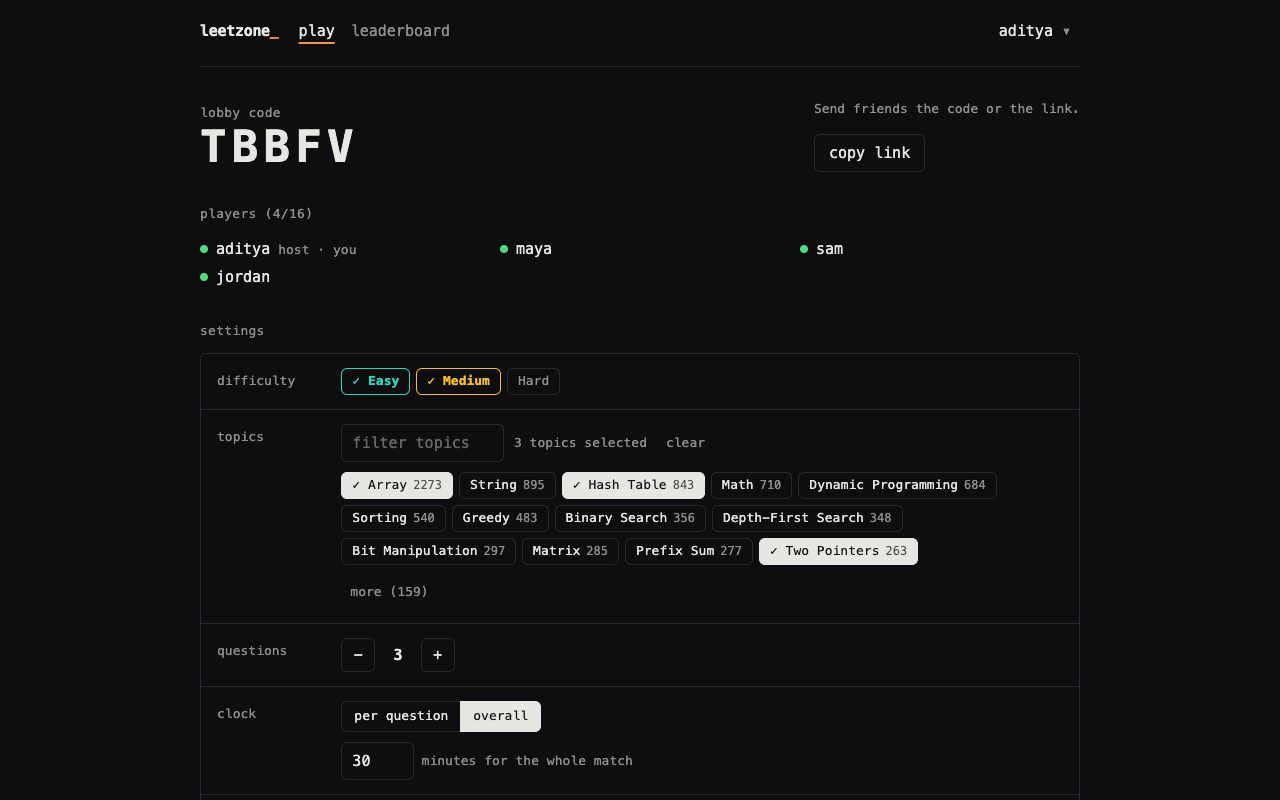
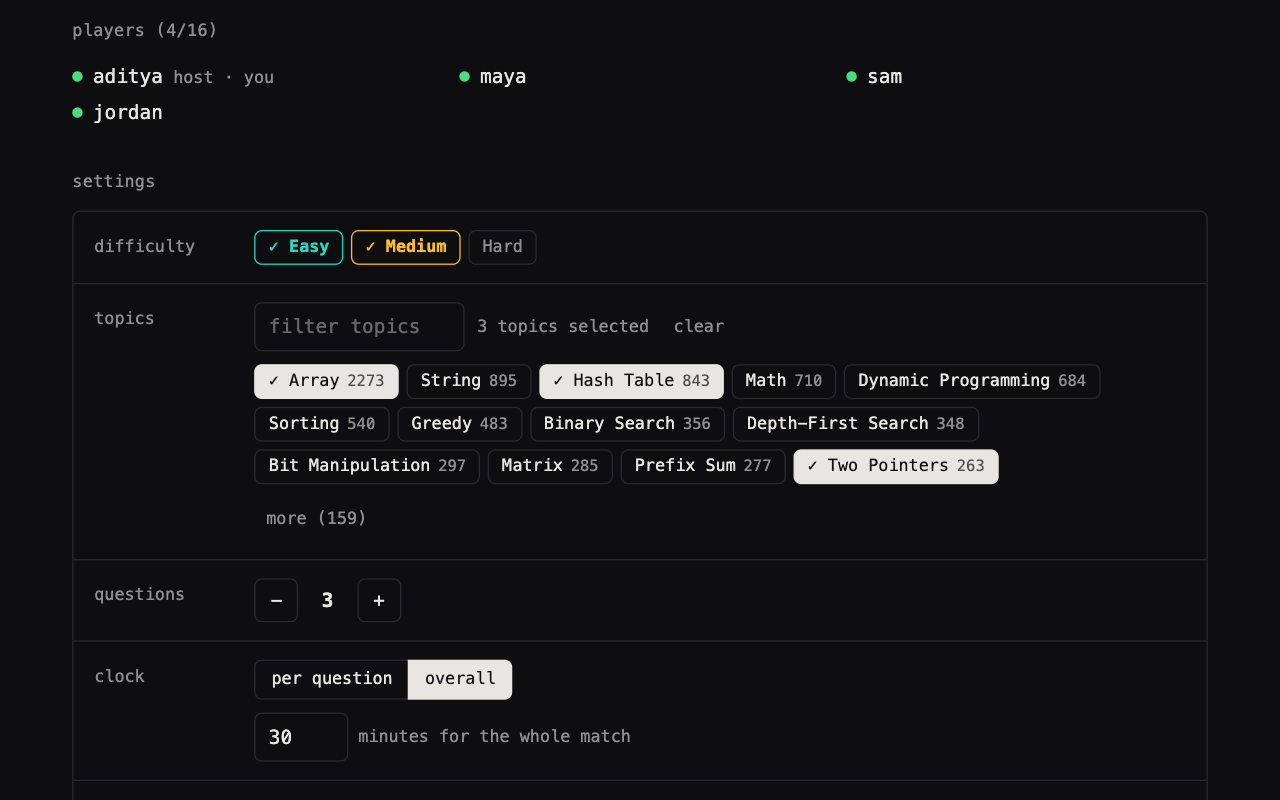
Re-shoot the store screenshots at higher pixel density
Each shot lays the page out in a smaller CSS viewport with a higher device
scale factor, so the UI is drawn larger at native density while the file
stays at the store's exact 1280x800. Promo tiles rendered at 2x and scaled
down for smoother edges.

diff --git a/store/promo-marquee.html b/store/promo-marquee.html
@@ -3,10 +3,11 @@
 <head>
 <meta charset="utf-8">
 <title>leetzone marquee 1400x560</title>
-<!-- Chrome Web Store marquee promo tile. Render at exactly 1400x560, device
-     scale factor 1, to store/promo-marquee-1400x560.png. The panel on the
-     right is a 1:1 crop of screenshot-1.png (the extension's HUD on a real
-     leetcode.com problem page), so render after that screenshot exists. -->
+<!-- Chrome Web Store marquee promo tile. Render a 1400x560 viewport at device
+     scale factor 2, then downscale to exactly 1400x560 (sips -z 560 1400) to
+     store/promo-marquee-1400x560.png. The panel on the right is a 1:1 crop of
+     screenshot-1.png (the extension's HUD on a real leetcode.com problem
+     page), so render after that screenshot exists. -->
 <style>
   :root { --bg: #0e0e10; --fg: #e8e6e3; --muted: #8f8f8f; --line: #2a2a2e; --accent: #fb923c; }
   html, body { margin: 0; }
@@ -25,10 +26,10 @@
   .wordmark span { color: var(--accent); }
   .line { margin-top: 26px; font-size: 26px; line-height: 1; color: var(--muted); letter-spacing: 0.01em; }
   /* A window onto the real page, flush with the right edge and running off
-     the bottom. Shows page pixels x 648..1280, y 56.. of screenshot-1.png. */
+     the bottom. Shows page pixels x 648..1280, y 66.. of screenshot-1.png. */
   .shot {
     position: absolute; left: 768px; top: 64px; width: 632px; height: 520px;
-    background: url("screenshot-1.png") -648px -56px no-repeat;
+    background: url("screenshot-1.png") -648px -66px no-repeat;
     border: 1px solid var(--line); border-right: 0; border-bottom: 0;
     border-top-left-radius: 12px;
     box-shadow: 0 24px 64px rgba(0, 0, 0, 0.55);

diff --git a/store/promo-small.html b/store/promo-small.html
@@ -3,8 +3,9 @@
 <head>
 <meta charset="utf-8">
 <title>leetzone promo tile 440x280</title>
-<!-- Chrome Web Store small promo tile. Render at exactly 440x280, device
-     scale factor 1, to store/promo-small-440x280.png. -->
+<!-- Chrome Web Store small promo tile. Render a 440x280 viewport at device
+     scale factor 2, then downscale to exactly 440x280 (sips -z 280 440) to
+     store/promo-small-440x280.png. -->
 <style>
   :root { --bg: #0e0e10; --fg: #e8e6e3; --muted: #8f8f8f; --accent: #fb923c; }
   html, body { margin: 0; }
